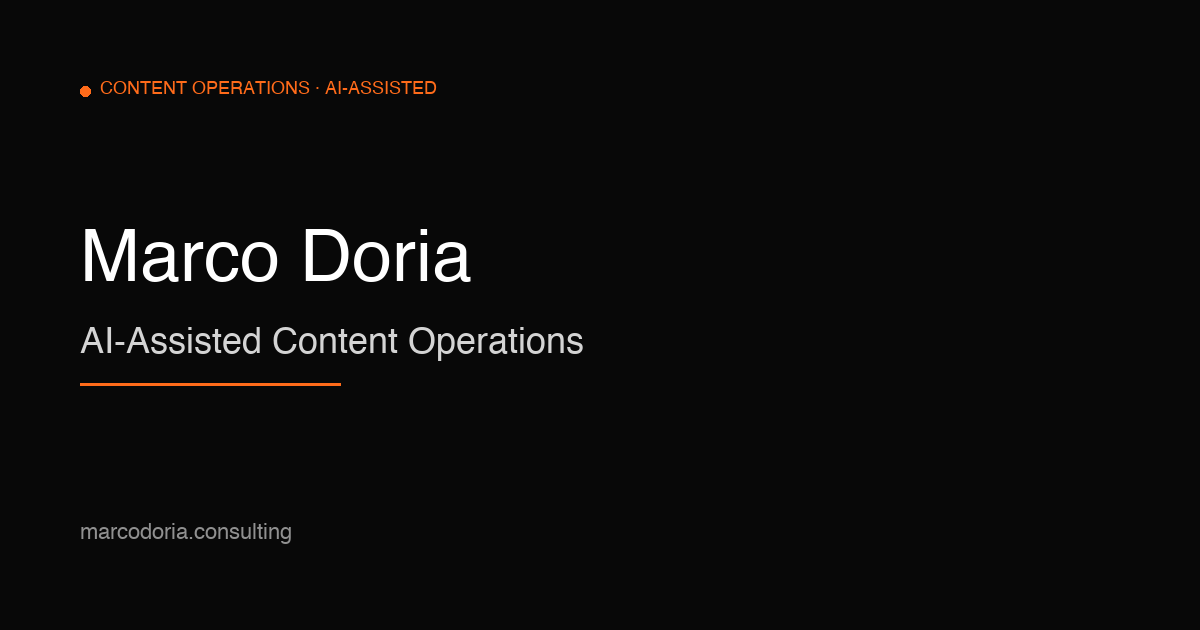
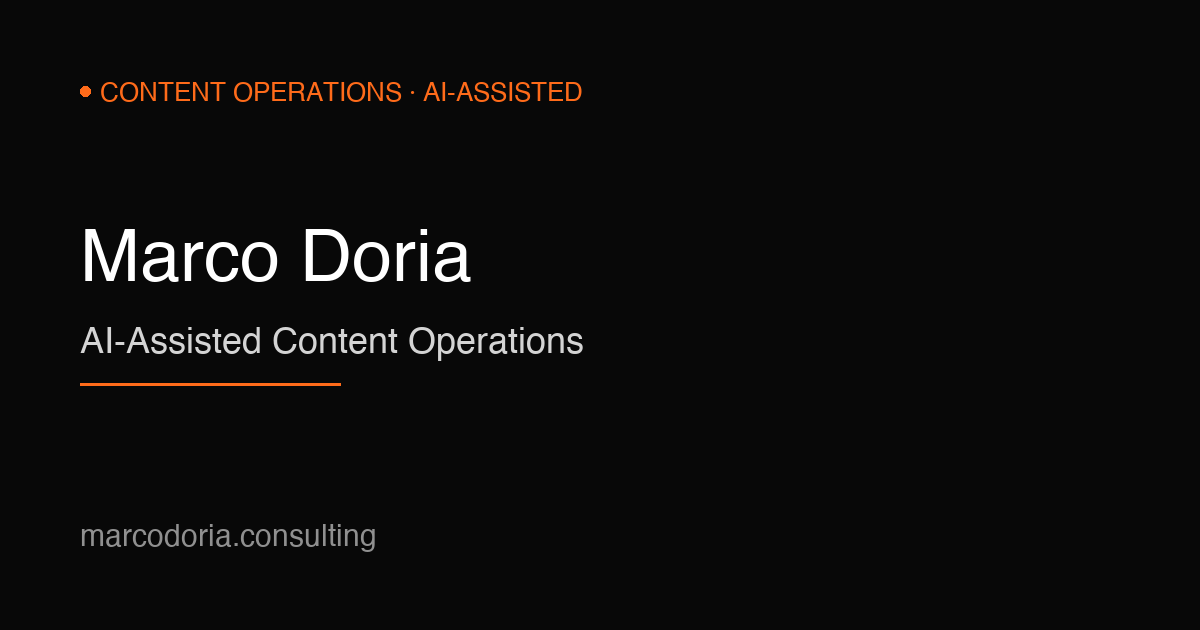
Increase OG image label and URL font sizes

Changed region(s): [[0.0617, 0.1206, 0.4933, 0.181], [0.0617, 0.8143, 0.3083, 0.8746]]

diff --git a/generate_og.py b/generate_og.py
@@ -27,10 +27,10 @@ def load_font(size, bold=False):
                 continue
     return ImageFont.load_default()
 
-font_label = load_font(18)
+font_label = load_font(26)
 font_name  = load_font(72, bold=True)
 font_title = load_font(36)
-font_url   = load_font(22)
+font_url   = load_font(30)
 
 # dot + label
 dot_x, dot_y = PADDING, PADDING
